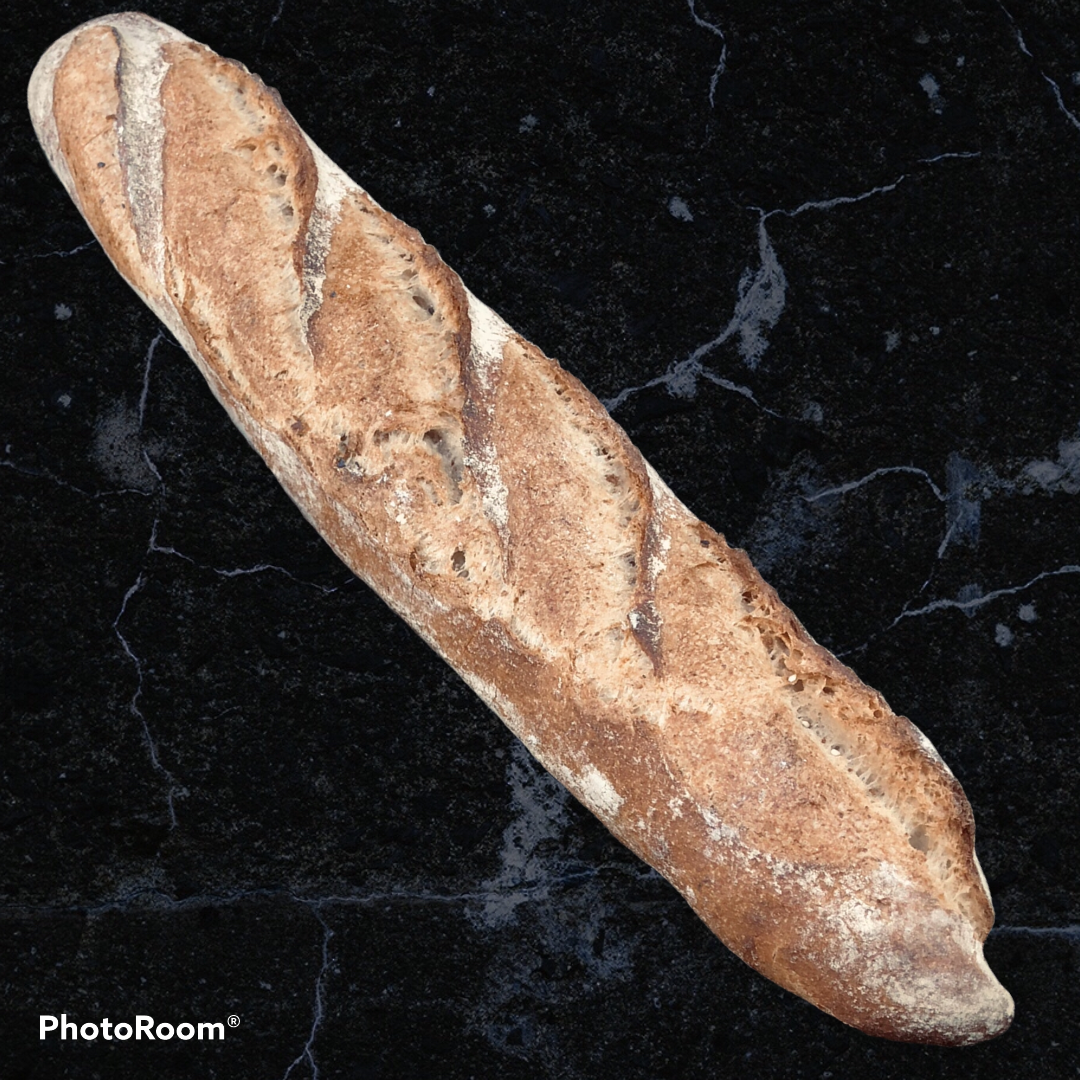
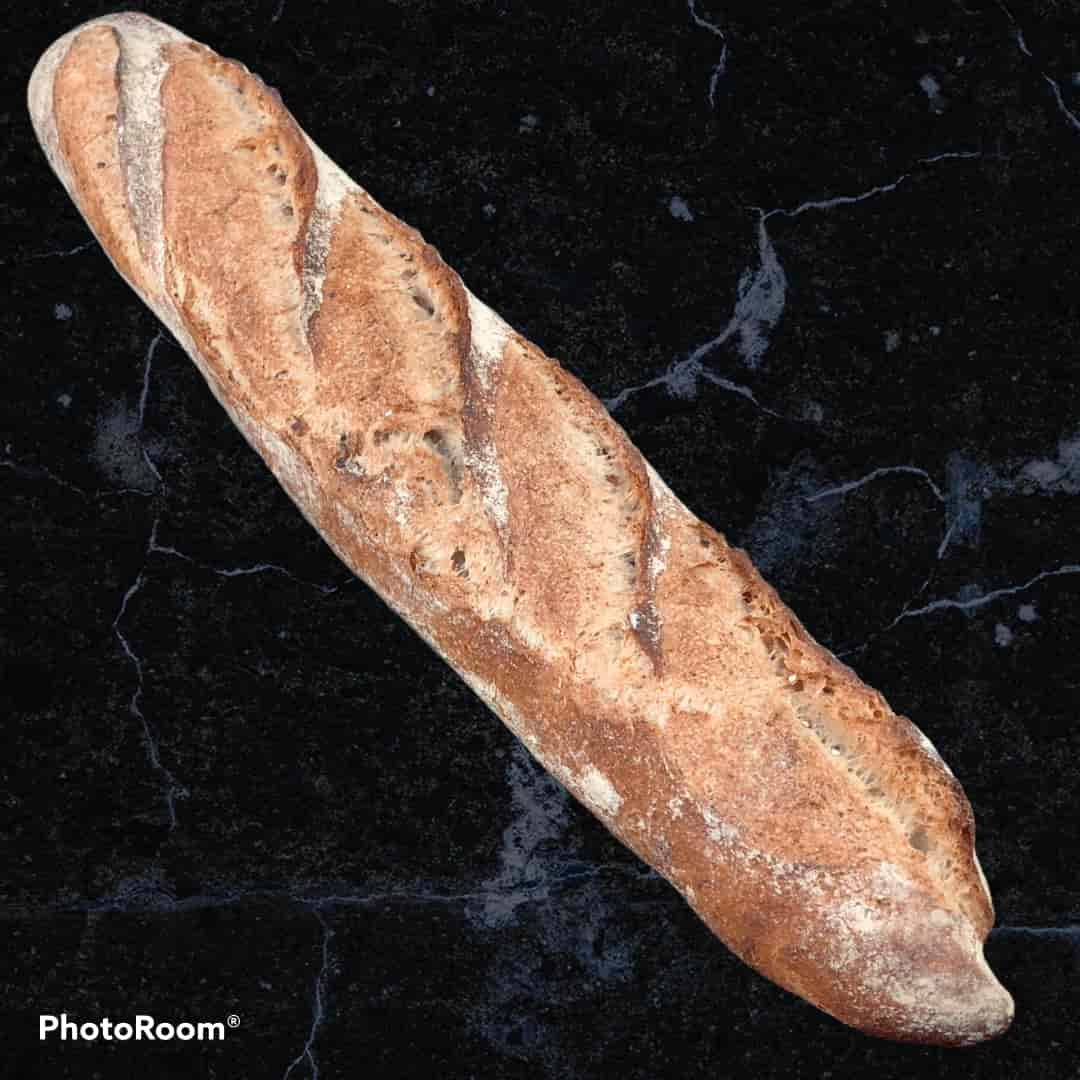
compressed all images

diff --git a/index.html b/index.html
@@ -13,7 +13,7 @@
   <meta property="og:type" content="website" />
   <meta property="og:title" content="Boulangerie Bonjour Bakery | World-Class Bread and Cheese" />
   <meta property="og:description" content="Welcome to Bonjour Bakery! Our bakery specializes in fresh, artisan breads and cheese. Order now to experience the taste of our handmade sourdough bread made in the European style." />
-  <meta property="og:image" content="https://bonjourbakery.isaelhuard.dev/images/og.png" />
+  <meta property="og:image" content="https://bonjourbakery.isaelhuard.dev/images/og.jpeg" />
   <meta property="og:site_name" content="Boulangerie Bonjour Bakery" />  -->
   <link rel="preconnect" href="https://fonts.googleapis.com" />
   <link rel="preconnect" href="https://fonts.gstatic.com" crossorigin />
@@ -59,11 +59,11 @@
       <p>Sunday to Tuesday - closed</p>
       <a class="btn" href="/pages/products.html">VIEW PRODUCTS</a>
     </article>
-    <img id="hero_image" src="images/family2.png"
+    <img id="hero_image" src="images/family2.jpeg"
       alt="Photo of artisanal baker and owner of Bonjour Bakery Yvan Chartrand" />
   </section>
   <section id="breads">
-    <img src="/images/customer.png" alt="Photo of a customer buying our specialty sourdough bread" />
+    <img src="/images/customer.jpeg" alt="Photo of a customer buying our specialty sourdough bread" />
     <div class="cont_one">
       <article class="breads_card">
         <img src="/images/traditional.jpeg" alt="Loaf of our traditional sourdough bread" />
@@ -156,10 +156,10 @@
       <a class="btn" href="/pages/products.html">VIEW PRODUCTS</a>
     </article>
     <div class="image_container">
-      <img class="cheese_image carrousel_img_1" src="/images/cheese4.png"
+      <img class="cheese_image carrousel_img_1" src="/images/cheese4.jpeg"
         alt="A photo of an assortment of our rich selection of artisanal cheeses" />
       <img class="cheese_image carrousel_img_2" src="/images/cheese5.png" alt="A delicious cheese board">
-      <img class="cheese_image carrousel_img_3" src="/images/cheese2.png"
+      <img class="cheese_image carrousel_img_3" src="/images/cheese2.jpeg"
         alt="A photo of an assortment of our rich selection of artisanal cheeses" />
     </div>
   </section>

diff --git a/pages/about.html b/pages/about.html
@@ -49,7 +49,7 @@
     allow="accelerometer; autoplay; clipboard-write; encrypted-media; gyroscope; picture-in-picture; web-share"
     allowfullscreen></iframe>
   <section id="family">
-    <img id="family_img" src="/images/family.png" alt="Image of the owner's family that run Bonjour Bajery" />
+    <img id="family_img" src="/images/family.jpeg" alt="Image of the owner's family that run Bonjour Bajery" />
     <h1>Quality Bread</h1>
     <div id="family_text">
       <p>
@@ -70,7 +70,7 @@
   <section id="story">
     <div id="container_one" class="container">
       <article id="flour1" class="story_card">
-        <img src="/images/flour.png" alt="Image of baker owner at Boulangerie Bonjour Bakery" />
+        <img src="/images/flour.jpeg" alt="Image of baker owner at Boulangerie Bonjour Bakery" />
         <p>
           We use local Alberta wheat for its great taste and quality. Whole
           wheat and rye are milled on location. Our bread is baked fresh daily

diff --git a/pages/products.html b/pages/products.html
@@ -54,7 +54,7 @@
     </label>
   </menu>
   <section id="bread_section" class="product_section">
-    <img class="cover_img" src="/images/products.png" alt="Image of bread dough" />
+    <img class="cover_img" src="/images/products.jpeggu" alt="Image of bread dough" />
     <div class="container">
       <article class="product_card">
         <img src="/images/paysanne.jpeg" alt="Loaf of our pain paysanne" />
@@ -189,7 +189,7 @@
     </label>
   </section>
   <section id="cheese_section" class="product_section">
-    <img class="cover_img" src="/images/cheese_platter.png" alt="Image of a cheese platter" />
+    <img class="cover_img" src="/images/cheese_platter.jpeg" alt="Image of a cheese platter" />
     <div class="container">
       <article class="product_card">
         <img src="/images/allegretto.jpeg" alt="Image of allegretto cheese" />

diff --git a/css/contact.css b/css/contact.css
@@ -235,7 +235,7 @@ body {
 main {
   width: 100%;
   min-height: 100vh;
-  background-image: url(/images/contact.png);
+  background-image: url(/images/contact.jpeg);
   background-position: center bottom;
   background-repeat: no-repeat;
   background-size: cover;

diff --git a/scss/contact.scss b/scss/contact.scss
@@ -5,7 +5,7 @@
 main {
   width: 100%;
   min-height: 100vh;
-  background-image: url(/images/contact.png);
+  background-image: url(/images/contact.jpeg);
   background-position: center bottom;
   background-repeat: no-repeat;
   background-size: cover;
